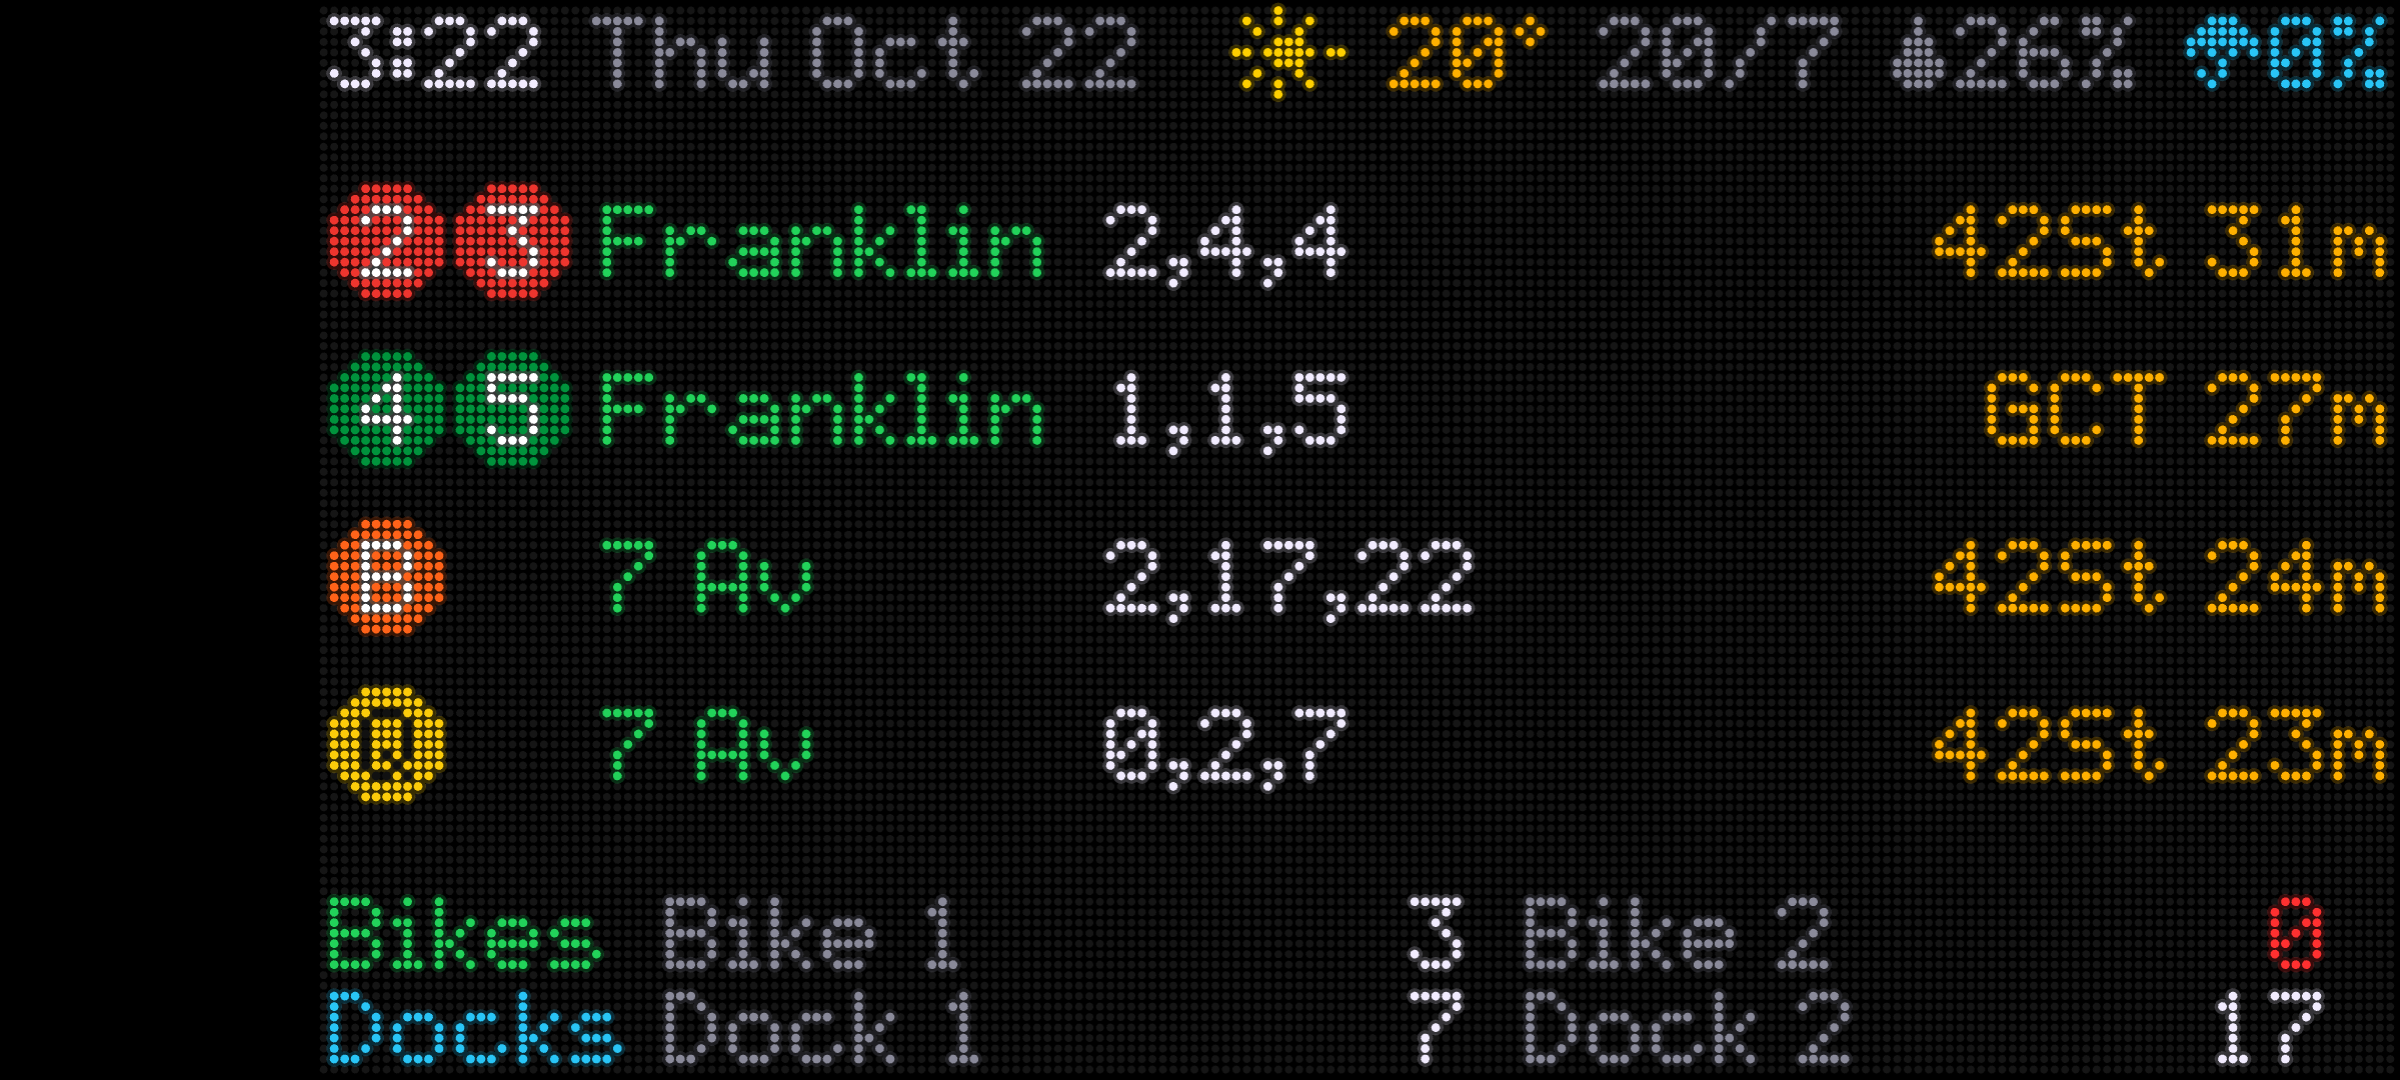
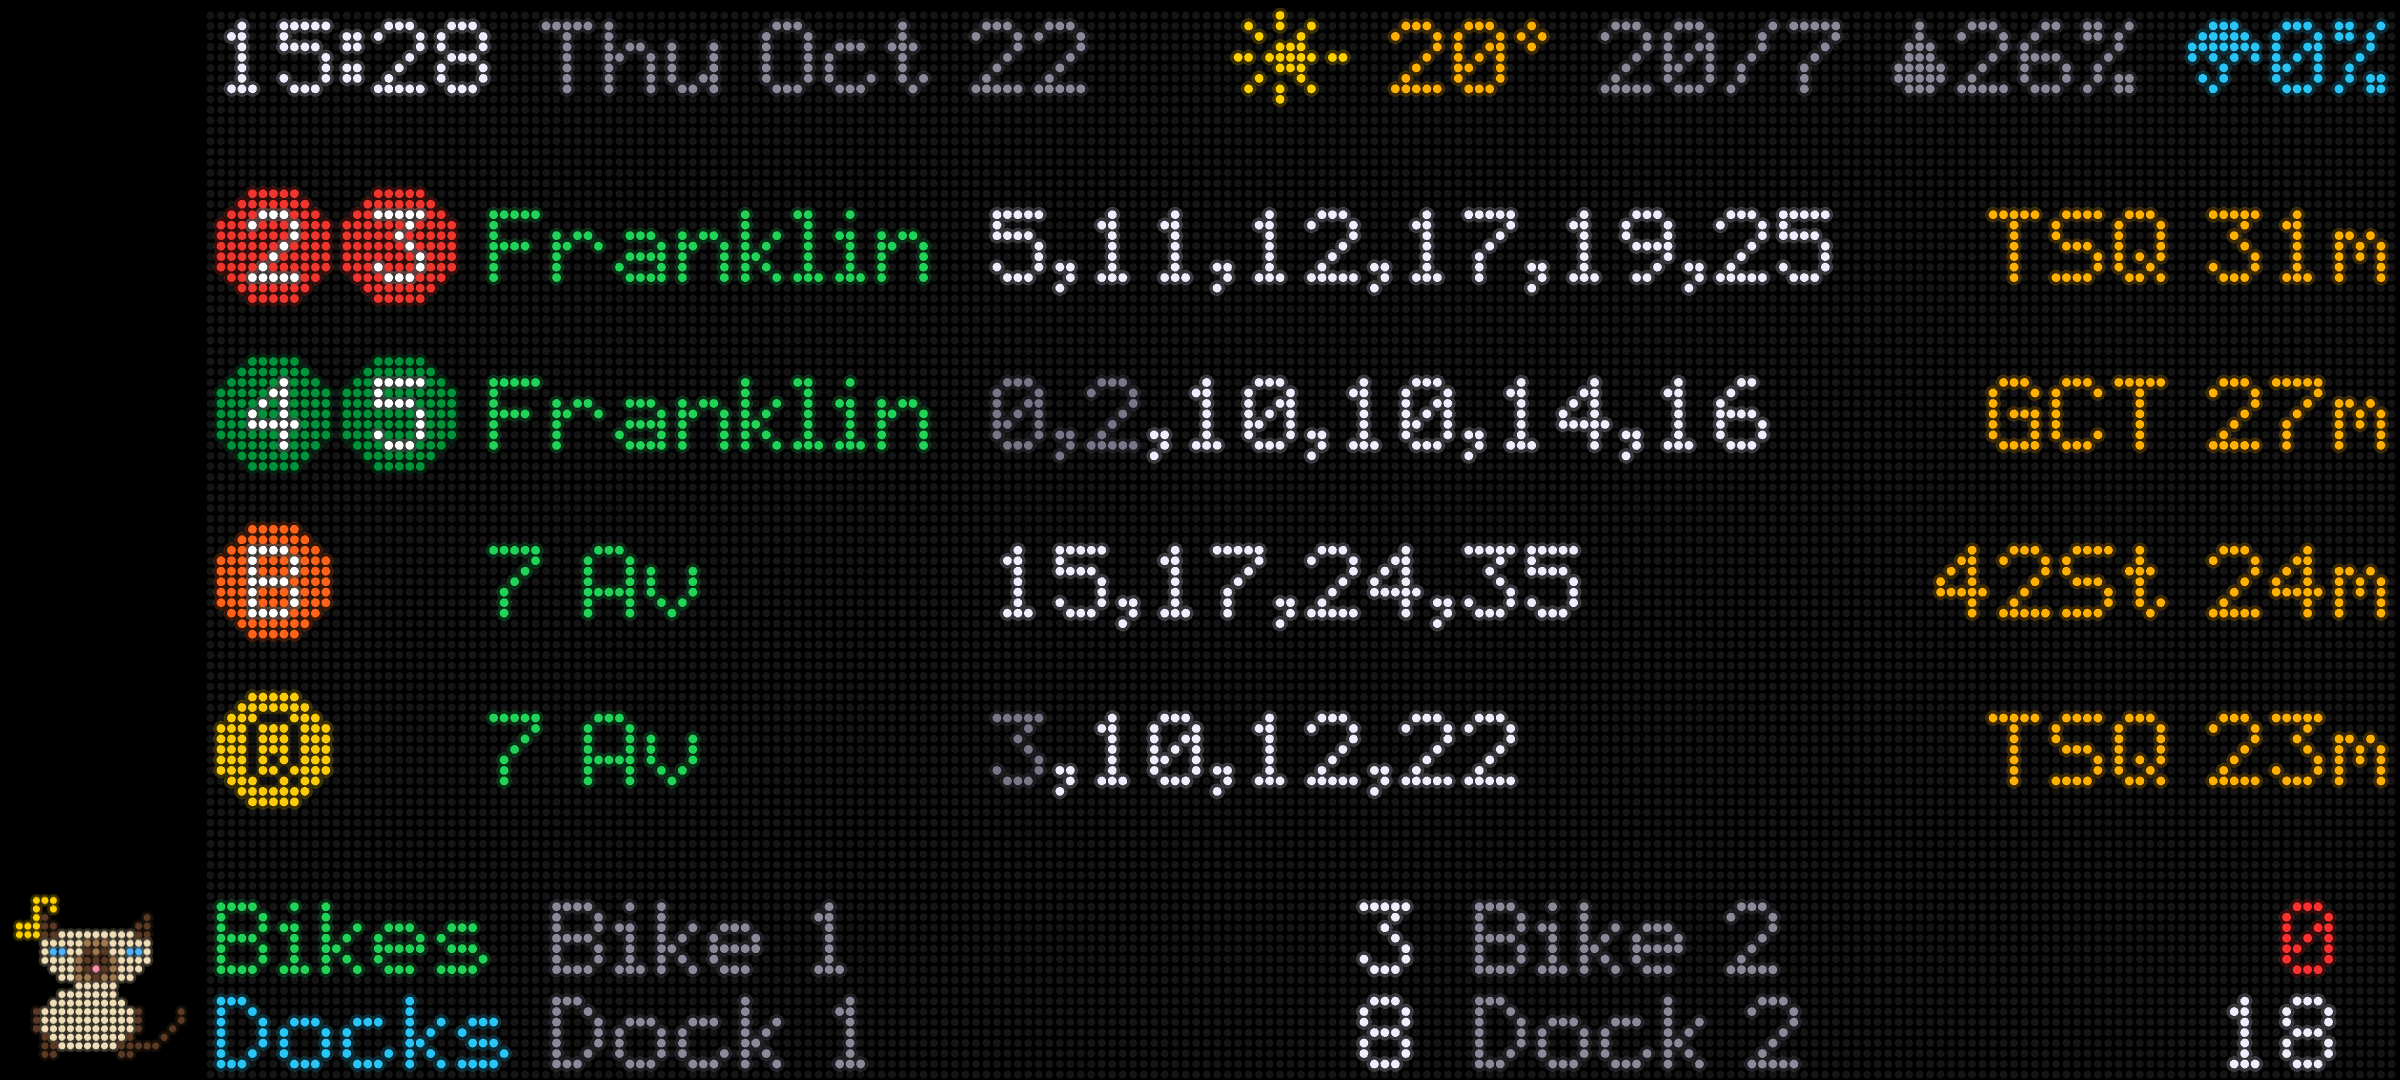
24h clock, train windows with dimmed misses, TSQ labels, strip cat
- 2/3 and 4/5: every train in the next 15 min, at least 6; B/Q: next
  25 min, at least 4 (config subway[].show); numbers never cut in half
- departures too soon to catch (<5 / <10 min) drawn at half brightness
- 2/3 and Q travel time labelled TSQ; 24 h clock
- strip narrowed to 8% incl. the camera cut-out (viewport-fit=cover)
- dancing Siamese pixel cat in the strip, away from the broken corner

diff --git a/public/app.js b/public/app.js
@@ -20,6 +20,7 @@
     cyan: "#29C5F6",
     yellow: "#FFE14D",
     red: "#FF3030",
+    half: "#79768A", // white at ~50 %
   };
 
   // 11x9 weather icons; y = sun, w = cloud, g = dark cloud, b = rain, s = snow, m = moon
@@ -79,23 +80,41 @@
     return param("style") || state.style || lsGet("style") || (state.data && state.data.display.style) || "list";
   }
 
-  // ?mask=right|left blacks out 10% of this device's screen on that side; ?mask=camera puts it on
+  // ?mask=right|left blacks out 6% of this device's screen on that side; ?mask=camera puts it on
   // the front-camera side (top edge in portrait), following the phone as it rotates.
   // Remembered per device; ?mask=none turns it off again.
+  // The S21's damaged corner is at the camera edge's end that is on top when the camera is on
+  // the left, so the cat goes to the other end; ?cat=top|bottom|off overrides.
+  function screenAngle() {
+    var a = screen.orientation ? screen.orientation.angle : window.orientation;
+    return a === -90 ? 270 : a;
+  }
   function maskSide() {
     var m = param("mask") || lsGet("mask");
     if (m !== "camera") return m;
-    var a = screen.orientation ? screen.orientation.angle : window.orientation;
+    var a = screenAngle();
     if (a === 90) return "left";
-    if (a === 270 || a === -90) return "right";
+    if (a === 270) return "right";
     return "none";
+  }
+  function catEnd() {
+    var c = param("cat") || lsGet("cat");
+    if (c === "top" || c === "bottom" || c === "off") return c;
+    var m = param("mask") || lsGet("mask");
+    if (m === "camera") return screenAngle() === 90 ? "bottom" : "top";
+    return "bottom";
   }
   function applyMask() {
     var m = param("mask");
     if (m) lsSet("mask", m);
+    var c = param("cat");
+    if (c) lsSet("cat", c);
     var cls = document.documentElement.className.replace(/\s*mask-\w+/g, "");
     var side = maskSide();
-    document.documentElement.className = cls + (side === "left" || side === "right" ? " mask-" + side : "");
+    var on = side === "left" || side === "right";
+    document.documentElement.className = cls + (on ? " mask-" + side : "");
+    var end = catEnd();
+    Cat.place(on && end !== "off" ? side : null, end);
   }
 
   // anti burn-in: walk the panel through a 3x3 grid of small offsets
@@ -109,8 +128,7 @@
   // ---------- header: clock + weather ----------
   function drawHeader() {
     var d = new Date(nowSec() * 1000);
-    var h = d.getHours() % 12 || 12;
-    var x = led.text(1, 1, h + ":" + pad(d.getMinutes()), C.white);
+    var x = led.text(1, 1, pad(d.getHours()) + ":" + pad(d.getMinutes()), C.white);
     x = led.text(x + 5, 1, DAYS[d.getDay()] + " " + MONTHS[d.getMonth()] + " " + d.getDate(), C.dim);
 
     var right = led.cols - 1;
@@ -200,10 +218,24 @@
         led.bullet(1 + k * 12, y, r, ROUTE_COLOR[r] || C.white, BLACK_TEXT[r] ? "#111111" : "#FFFFFF");
       }
       led.text(xLabel, y + 2, row.g.label, C.green);
+      // every train within show.withinMin minutes, but at least show.minTrains;
+      // trains closer than show.dimUnderMin (too soon to catch) are drawn at half brightness
+      var show = row.g.show || {};
+      var minTrains = show.minTrains || n, within = show.withinMin || 0, dimUnder = show.dimUnderMin || 0;
       var ms = [];
-      for (k = 0; k < row.list.length && ms.length < n; k++) ms.push(mins(row.list[k].a.t));
+      for (k = 0; k < row.list.length; k++) {
+        var mm = mins(row.list[k].a.t);
+        if (ms.length >= minTrains && mm > within) break;
+        ms.push(mm);
+      }
       var maxX = led.cols - travelW - 4;
-      led.text(xMins, y + 2, ms.length ? ms.join(",") : "--", ms.length ? C.white : C.dim, maxX);
+      if (!ms.length) led.text(xMins, y + 2, "--", C.dim);
+      var xm = xMins;
+      for (k = 0; k < ms.length; k++) {
+        var str = (k ? "," : "") + ms[k];
+        if (xm + FONT.measure(str) > maxX) break; // drop whole numbers, never half of one
+        xm = led.text(xm, y + 2, str, ms[k] < dimUnder ? C.half : C.white) + 1;
+      }
       var first = row.list[0];
       if (first) led.textRight(led.cols - 1, y + 2, travelText(row.g, first.r, first.a), C.amber);
     }
@@ -301,6 +333,7 @@
   }
 
   function init() {
+    Cat.init(document.getElementById("cat"));
     applyMask();
     var canvas = document.getElementById("board");
     led = new LedMatrix(canvas, ROWS, { showUnlitDots: true, glow: true, minCols: MIN_COLS });

diff --git a/public/cat.js b/public/cat.js
@@ -1,0 +1,105 @@
+// Dancing Siamese pixel cat for the black strip (only shown when a ?mask strip is on).
+// Drawn on its own small LED canvas with finer dots than the board. ES5.
+var Cat = (function () {
+  var PAL = {
+    c: "#F0DEB8", // cream coat
+    l: "#A07850", // shading
+    b: "#5A3A24", // seal points (ears, mask, paws, tail)
+    e: "#4FB4FF", // blue eyes
+    p: "#FF8FA8", // nose
+    n: "#FFD000", // music notes
+  };
+  var HEAD = [
+    ".b...........b.",
+    ".bb.........bb.",
+    ".bbcccccccccbb.",
+    ".ccccclllccccc.",
+    ".ceeccblbcceec.",
+    ".cccclbbblcccc.",
+    "..ccclbpblccc..",
+    "...ccllbllcc...",
+    ".....ccccc.....",
+  ];
+  var BODY = [
+    "....ccccccc....",
+    "...ccccccccc...",
+    "..ccccccccccc..",
+    "..ccccccccccc..",
+    "..ccccccccccc..",
+    "..ccccccccccc..",
+    "..bbcccccccbb..",
+    "..bb.......bb..",
+  ];
+  var NOTE = ["..nnn", "..n.n", "..n..", "nnn..", "nnn.."];
+  // arm pixels relative to the body's top-left (left arm; the right one is mirrored)
+  var ARM_DOWN = [[1, 2], [1, 3], [1, 4], [2, 5]];
+  var ARM_UP = [[1, 1], [0, 0], [0, -1], [0, -2]];
+  var TAILS = [
+    [[13, 6], [14, 6], [15, 5], [16, 4], [16, 3], [16, 2], [15, 1]],
+    [[13, 6], [14, 6], [15, 6], [16, 5], [17, 4], [18, 3], [18, 2]],
+  ];
+  // per beat: head sway, bounce, left arm up, right arm up, tail
+  var BEATS = [
+    { sway: 0, dy: 0, l: 1, r: 0, tail: 0 },
+    { sway: 1, dy: -1, l: 0, r: 0, tail: 1 },
+    { sway: 0, dy: 0, l: 0, r: 1, tail: 0 },
+    { sway: -1, dy: -1, l: 0, r: 0, tail: 1 },
+  ];
+  var W = 21, H = 30, X0 = 2, BEAT_MS = 350;
+  var STRIP = 0.08; // strip width as a fraction of the screen (matches index.html)
+  var led, canvas, timer, beat = 0;
+
+  function pts(list, x, y, color, mirror) {
+    for (var i = 0; i < list.length; i++)
+      led.set(mirror ? x + 14 - list[i][0] : x + list[i][0], y + list[i][1], color);
+  }
+
+  function frame() {
+    if (!led || canvas.style.display === "none") return;
+    var f = BEATS[beat % BEATS.length];
+    var blink = beat % 23 === 0;
+    led.clear();
+    var top = H - 18 + f.dy;
+    var head = HEAD;
+    if (blink) head = head.map(function (r) { return r.replace(/e/g, "b"); });
+    led.sprite(X0 + f.sway, top, head, PAL);
+    var by = top + 9;
+    led.sprite(X0, by, BODY, PAL);
+    pts(f.l ? ARM_UP : ARM_DOWN, X0, by, PAL.b, false);
+    pts(f.r ? ARM_UP : ARM_DOWN, X0, by, PAL.b, true);
+    pts(TAILS[f.tail], X0, by, PAL.b, false);
+    // two notes drifting up, one on each side
+    var t = beat % 16;
+    if (t < 10) led.sprite(1, 10 - t, NOTE, PAL);
+    if (t >= 6) led.sprite(14, 10 - (t - 6), NOTE, PAL);
+    led.render();
+    beat++;
+  }
+
+  // side: "left" | "right" | null (hidden); end: "top" | "bottom"
+  function place(side, end) {
+    if (!side) {
+      canvas.style.display = "none";
+      return;
+    }
+    canvas.style.display = "block";
+    canvas.style.left = side === "left" ? "0" : "auto";
+    canvas.style.right = side === "right" ? "0" : "auto";
+    var w = document.documentElement.clientWidth * STRIP;
+    canvas.style.width = w + "px";
+    canvas.style.height = (w * (H + 1)) / (W + 1.5) + "px"; // +1.5: keep all W columns despite rounding
+    canvas.style.top = end === "top" ? "0" : "auto";
+    canvas.style.bottom = end === "bottom" ? "0" : "auto";
+    // the panel is created on first placement: a hidden canvas has no size yet
+    if (!led) led = new LedMatrix(canvas, H, { showUnlitDots: false, glow: true });
+    else led.resize();
+  }
+
+  function init(el) {
+    canvas = el;
+    canvas.style.display = "none";
+    timer = setInterval(frame, BEAT_MS);
+  }
+
+  return { init: init, place: place };
+})();

diff --git a/public/index.html b/public/index.html
@@ -2,7 +2,7 @@
 <html lang="en">
 <head>
   <meta charset="utf-8">
-  <meta name="viewport" content="width=device-width, initial-scale=1, maximum-scale=1, user-scalable=no">
+  <meta name="viewport" content="width=device-width, initial-scale=1, maximum-scale=1, user-scalable=no, viewport-fit=cover">
   <meta name="theme-color" content="#000000">
   <meta name="mobile-web-app-capable" content="yes">
   <link rel="manifest" href="manifest.webmanifest">
@@ -10,15 +10,20 @@
   <style>
     html, body { margin: 0; height: 100%; background: #000; overflow: hidden; }
     canvas { display: block; width: 100vw; height: 100vh; }
-    /* ?mask=right|left|camera: keep 10% of the screen width fully black (hides a damaged edge) */
-    html.mask-right canvas, html.mask-left canvas { width: 90vw; }
-    html.mask-left canvas { margin-left: 10vw; }
+    /* ?mask=right|left|camera: keep 8% of the screen width black (hides a damaged edge; the page
+       draws under the camera cut-out, so this includes it). The dancing cat (cat.js) sits in the
+       undamaged end of that strip. */
+    html.mask-right #board, html.mask-left #board { width: 92vw; }
+    html.mask-left #board { margin-left: 8vw; }
+    #cat { position: absolute; display: none; }
   </style>
 </head>
 <body>
   <canvas id="board"></canvas>
+  <canvas id="cat"></canvas>
   <script src="font.js"></script>
   <script src="led.js"></script>
+  <script src="cat.js"></script>
   <script src="app.js"></script>
 </body>
 </html>

diff --git a/lib/mock.js b/lib/mock.js
@@ -53,6 +53,7 @@ function mockSubway(config) {
       stopId: g.stopId,
       routes: g.routes,
       rows: g.rows || g.routes.map((r) => [r]),
+      show: g.show || null,
       targets: Object.fromEntries(Object.entries(g.target || {}).map(([r, v]) => [r, v.label])),
       arrivals,
     };

diff --git a/lib/mta.js b/lib/mta.js
@@ -103,6 +103,7 @@ async function getSubway(config) {
     stopId: g.stopId,
     routes: g.routes,
     rows: g.rows || g.routes.map((r) => [r]),
+    show: g.show || null,
     targets: Object.fromEntries(
       Object.entries(g.target || {}).map(([r, v]) => [r, v.label])
     ),

diff --git a/docs/LAYOUT.md b/docs/LAYOUT.md
@@ -1,17 +1,17 @@
 # Layout (phone, landscape)
 
 The page draws a simulated LED dot matrix. The panel is 102 dots tall, and its width follows
-the screen's aspect ratio (≈205 dots on the S21 with the 10 % camera-side strip). The font is 5×7 dots. Each dot is a
+the screen's aspect ratio (≈210 dots on the S21 with the 8 % camera-side strip). The font is 5×7 dots. Each dot is a
 lit or unlit LED circle with a slight glow.
 
 ```
       ┌───────────────────────────────────────────────────────────────────┐
-      │ 3:22 Thu Oct 22          ☀ 20°  20/7  ♦26%  ☂0%                   │  header (9)
+      │ 15:28 Thu Oct 22         ☀ 20°  20/7  ♦26%  ☂0%                   │  header (9), 24 h clock
       │                                                                   │
-      │ (2)(3) Franklin  2,5,5                                 42St 31m   │
-      │ (4)(5) Franklin  1,2,5                                  GCT 27m   │  subway: config rows,
-      │ (B)    7 Av      3,17,22                               42St 24m   │  spread over 72 dots
-      │ (Q)    7 Av      0,3,7                                 42St 23m   │
+      │ (2)(3) Franklin  5,11,12,17,19,25                       TSQ 31m   │
+      │ (4)(5) Franklin  0,2,10,10,14,16                        GCT 27m   │  subway: config rows,
+      │ (B)    7 Av      15,17,24,35                           42St 24m   │  spread over 72 dots
+      │ (Q)    7 Av      3,10,12,22                             TSQ 23m   │
 y=84  │ Bikes  Bike 1               3   Bike 2                   0        │  citi bike (9)
       │ Docks  Dock 1               7   Dock 2                  17        │  citi bike (9)
       └───────────────────────────────────────────────────────────────────┘
@@ -38,7 +38,7 @@ You can also choose the style with a URL parameter: `?style=list` or `?style=nex
 | Route bullets | Official MTA colours, with a white letter (black on N/Q/R/W) |
 | Station label (list) | green `#22D35A` |
 | Destination (next) | blue `#3A4DFF` |
-| Minutes | white `#F2ECFF` |
+| Minutes | white `#F2ECFF`; half brightness when under `show.dimUnderMin` |
 | Travel time to 42 St | amber `#FFB000` |
 | Weather icon | sun/moon/partly/cloud/rain/snow/fog/storm, 11×9 multicolour sprite |
 | Temperature (°C) | amber |

diff --git a/README.md b/README.md
@@ -20,8 +20,14 @@ See [docs/LAYOUT.md](docs/LAYOUT.md) for the layout.
 | Weather | Open-Meteo, ZIP 11238 (40.6797, -73.9641), °C: icon, temp, hi/lo, humidity, rain chance next 3 h | 10 min |
 | Stop names | MTA static GTFS `stops.txt` → `data/stops.json` (`npm run fetch-stops`) | once |
 
-Configured stations: Franklin Av `239N` (2/3 and 4/5, each pair merged into one row) and
-7 Av `D25N` (B, Q), Manhattan-bound only.
+Configured stations, Manhattan-bound only (`config.json` → `subway[].show`):
+
+| Row | Departures shown | Dimmed (too soon to catch) | Travel time to |
+|---|---|---|---|
+| 2/3 Franklin Av `239N` | all in next 15 min, at least 6 | under 5 min | TSQ (Times Sq) |
+| 4/5 Franklin Av | all in next 15 min, at least 6 | under 5 min | GCT |
+| B 7 Av `D25N` | all in next 25 min, at least 4 | under 10 min | 42St (Bryant Pk) |
+| Q 7 Av | all in next 25 min, at least 4 | under 10 min | TSQ |
 
 Citi Bike (`config.json` → `citibike`):
 
@@ -79,9 +85,10 @@ Once Termux:Boot is set up, the server starts automatically after a reboot
 
 | Parameter | Effect |
 |---|---|
-| `?mask=camera` | 10 % black strip on the front-camera side, follows rotation (the S21 has a broken corner there) |
+| `?mask=camera` | 8 % black strip on the front-camera side (cut-out included), follows rotation (the S21 has a broken corner there) |
 | `?mask=left` / `?mask=right` | strip on a fixed side |
 | `?mask=none` | no strip (default) |
+| `?cat=top` / `?cat=bottom` / `?cat=off` | dancing Siamese cat in the strip; by default at the end away from the S21's broken corner |
 | `?style=list` / `?style=next` | subway style (tapping the board also switches) |
 
 Every few minutes the whole panel shifts by up to half a dot (`display.pixelShiftMinutes`) to
@@ -99,6 +106,7 @@ lib/mock.js          MOCK=1 fake feeds (encoded through the real protobuf path)
 public/font.js       5x7 dot-matrix font
 public/led.js        canvas LED matrix renderer
 public/app.js        layout + polling (ES5, for old WebViews)
+public/cat.js        dancing Siamese pixel cat for the masked strip
 public/icon-*.png    app icons (scripts/make-icons.js)
 scripts/             fetch-stops, find-station, make-icons, termux-setup, start, adb-setup
 ```
